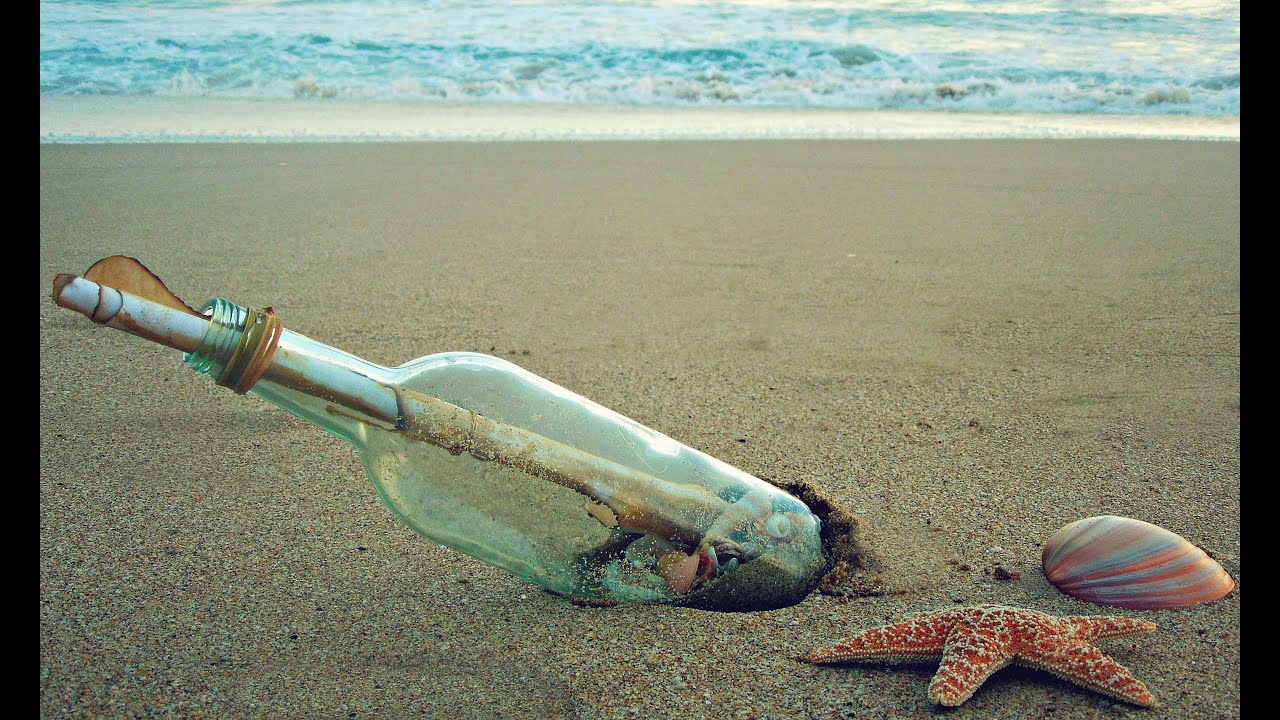
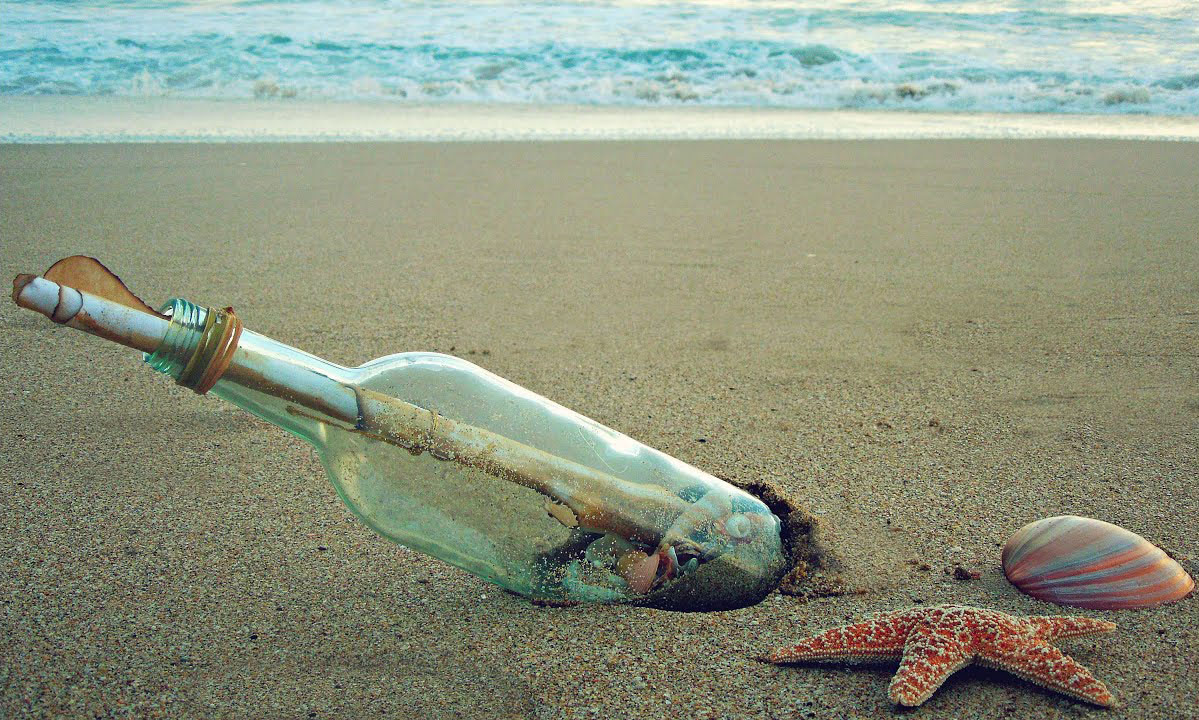
imagen de botella ordenado el css

diff --git a/assets/css/principal.css b/assets/css/principal.css
@@ -17,7 +17,6 @@ body {
 }
 
 #navBar form button.btn-dark:hover {
-	/* hover es cuando pasas el mouse por encima de algo */
 	background-color: #6e932c;
 	color: white;
 }
@@ -90,11 +89,17 @@ body {
 	text-align: justify;
 	font-size: 15px;
 }
+/* /Terminos y condiciones */
 
+/* Footer */
+#footer a {
+	color: white;
+}
+/* /Footer */
+
+/* FooterNav */
 .footer-nav {
-	/* background: linear-gradient(90deg, #062609 0, #0e4714 25%, #1ab228); */
 	background: linear-gradient(90deg, #003D7F 0, #4CA3FF 75%, #007bff);
-	/* background-color: #51487D; */
 	padding: 20px 0px;
 }
 
@@ -102,23 +107,18 @@ body {
 	color: white;
 }
 
+#rowFooter {
+	text-align: center;
+}
+/* /FooterNav */
+
+/* FooterBootom */
 .footer-bottom {
+	text-align: center;
 	background: black;
 	color: white;
 	padding-top: 20px;
 	padding-bottom: 20px;
-}
-
-#footer a {
-	color: white;
-}
-
-#rowFooter {
-	text-align: center;
-}
-
-.footer-bottom {
-	text-align: center;
 }
 
 .footer-bottom ul {
@@ -216,3 +216,16 @@ body {
 	transform-origin: bottom;
 	transition: transform .5s;
 }
+/* /FooterBootom */
+
+/* Contacto */
+#contenedorBotella {
+	padding-left: 0;
+	padding-right: 0;
+}
+
+#contenedorBotella img {
+	max-height: 70vh;
+	object-fit: cover;
+}
+/* /Contacto */

diff --git a/application/views/contacto.php b/application/views/contacto.php
@@ -1,9 +1,7 @@
 <body>
   <main>
-    <div id="contenedorBotella" class="container">
-      <div class="row">
-        <div class="col">
-          <img src="assets/img/contacto.jpg" alt="botella">
+    <div id="contenedorBotella" class="container-fluid">
+          <img class="d-block w-100" src="assets/img/contacto.jpg" alt="botella">
         </div>
       </div>
     </div>
